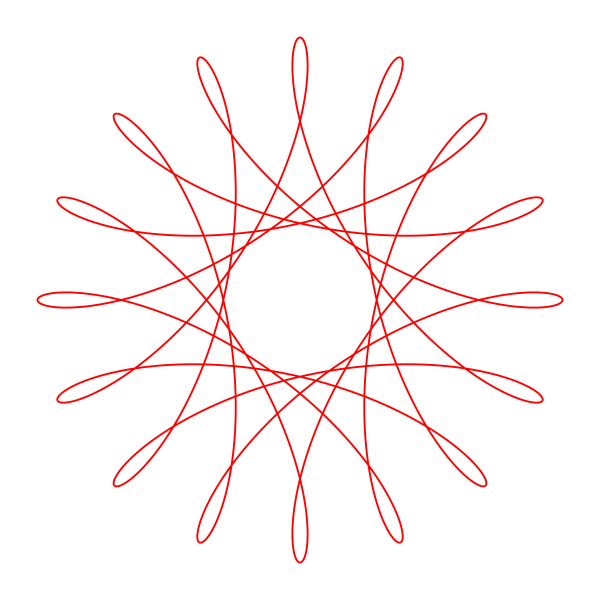
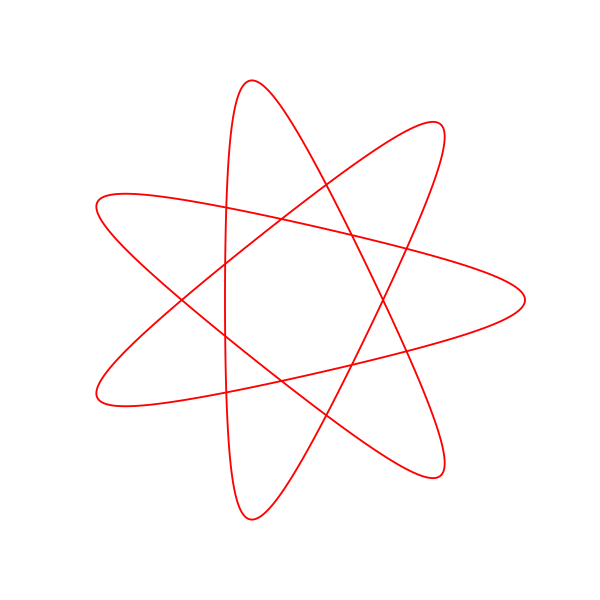
Spirograph animation and dimnsions diagrams

diff --git a/blog/geometric/spirograph-illustration.py b/blog/geometric/spirograph-illustration.py
@@ -1,0 +1,111 @@
+# Author:  Martin McBride
+# Created: 2022-01-22
+# Copyright (C) 2022, Martin McBride
+# License: MIT
+
+from generativepy.color import Color
+from generativepy.drawing import make_image, setup, make_image_frames
+import math
+
+from generativepy.geometry import Polygon, Text, Circle, Line
+from generativepy.gif import save_animated_gif
+
+
+def create_spiro(a, b, d, dt=0.01, extent=None):
+    if not extent:
+        extent = 2*math.pi*b/math.gcd(a, b)
+    t = 0
+    pts = []
+    while t < extent:
+        t += dt
+        x = (a - b) * math.cos(t) + d * math.cos((a - b)/b * t)
+        y = (a - b) * math.sin(t) - d * math.sin((a - b)/b * t)
+        pts.append((x, y))
+    return pts
+
+
+# Create an illustration of the first few points of the curve.
+def draw(ctx, pixel_width, pixel_height, frame_no, frame_count):
+
+    width = 32
+    setup(ctx, pixel_width, pixel_height, width=width, startx=-width/2, starty=-width/2, background=Color(1))
+
+    a = 14
+    b = 6
+    d = 4
+    Polygon(ctx).of_points(create_spiro(a, b, d)).stroke(Color('skyblue'), line_width=0.1)
+    points = create_spiro(a, b, d, 0.5, 4)
+    Polygon(ctx).of_points(points).open().stroke(Color('red'), 0.1)
+    for p in points:
+        Circle(ctx).of_center_radius(p, 0.2).fill(Color(0))
+
+make_image("spirograph-points.png", draw, 600, 600)
+
+# Create an illustration of the dimensions A, B, D.
+def draw2(ctx, pixel_width, pixel_height, frame_no, frame_count):
+
+    width = 32
+    setup(ctx, pixel_width, pixel_height, width=width, startx=-width/2, starty=-width/2, background=Color(1))
+
+    a = 14
+    b = 6
+    d = 4
+    angle = 1
+
+    Origin = (0, 0)
+    A = (-a, 0)
+    B = ((a-b)*math.cos(angle), (a-b)*math.sin(angle))
+    x = (a - b) * math.cos(angle) + d * math.cos((a - b) / b * angle)
+    y = (a - b) * math.sin(angle) - d * math.sin((a - b) / b * angle)
+    D = (x, y)
+
+    Polygon(ctx).of_points(create_spiro(a, b, d)).stroke(Color('skyblue'), line_width=0.1)
+    Polygon(ctx).of_points(create_spiro(a, b, d, 0.01, angle)).open().stroke(Color('red'), line_width=0.1)
+
+    Circle(ctx).of_center_radius(Origin, a).stroke(Color('darkgreen'), line_width=0.1)
+    Circle(ctx).of_center_radius(Origin, 0.3).fill(Color('darkgreen'))
+    Line(ctx).of_start_end(Origin, A).stroke(Color('darkgreen'), line_width=0.1)
+    Text(ctx).of('a', (A[0]/2, A[1])).size(1.5).offset(0, -0.5).fill(Color('darkgreen'))
+    Circle(ctx).of_center_radius(B, b).stroke(Color('blue'), line_width=0.1)
+    Circle(ctx).of_center_radius(B, 0.3).fill(Color('blue'))
+    Text(ctx).of('b', (B[0], B[1]+b/2)).size(1.5).offset(0.5, 0).fill(Color('blue'))
+    Line(ctx).of_start_end(B, (B[0], B[1]+b)).stroke(Color('blue'), line_width=0.1)
+    Circle(ctx).of_center_radius(D, 0.3).fill(Color('black'))
+    Line(ctx).of_start_end(B, D).stroke(Color('black'), line_width=0.1)
+    Text(ctx).of('d', ((B[0]+D[0])/2, (B[1]+D[1])/2)).size(1.5).offset(0.5, 0.5).fill(Color('black'))
+
+
+make_image("spirograph-dimensions.png", draw2, 600, 600)
+
+# Create an animation of the curve being drawn.
+def draw3(ctx, pixel_width, pixel_height, frame_no, frame_count):
+
+    width = 32
+    setup(ctx, pixel_width, pixel_height, width=width, startx=-width/2, starty=-width/2, background=Color(1))
+
+    a = 14
+    b = 6
+    d = 4
+    angle = (frame_no/frame_count)*2*math.pi*b/math.gcd(a, b)
+    print(angle)
+
+    Origin = (0, 0)
+    A = (-a, 0)
+    B = ((a-b)*math.cos(angle), (a-b)*math.sin(angle))
+    x = (a - b) * math.cos(angle) + d * math.cos((a - b) / b * angle)
+    y = (a - b) * math.sin(angle) - d * math.sin((a - b) / b * angle)
+    D = (x, y)
+
+    Polygon(ctx).of_points(create_spiro(a, b, d)).stroke(Color('skyblue'), line_width=0.2)
+    Polygon(ctx).of_points(create_spiro(a, b, d, 0.01, angle)).open().stroke(Color('red'), line_width=0.2)
+
+    Circle(ctx).of_center_radius(Origin, a).stroke(Color('darkgreen'), line_width=0.2)
+    Circle(ctx).of_center_radius(B, b).stroke(Color('blue'), line_width=0.2)
+    Circle(ctx).of_center_radius(B, 0.3).fill(Color('blue'))
+    Circle(ctx).of_center_radius(D, 0.3).fill(Color('black'))
+    Line(ctx).of_start_end(B, D).stroke(Color('black'), line_width=0.2)
+
+
+frames = make_image_frames(draw3, 400, 400, 100)
+save_animated_gif("spirograph-animation.gif", frames, 0.1)
+

diff --git a/blog/geometric/spirograph.py b/blog/geometric/spirograph.py
@@ -26,9 +26,9 @@ def draw(ctx, pixel_width, pixel_height, frame_no, frame_count):
     width = 32
     setup(ctx, pixel_width, pixel_height, width=width, startx=-width/2, starty=-width/2, background=Color(1))
 
-    a = 16
-    b = 11
-    d = 9
+    a = 14
+    b = 6
+    d = 4
     Polygon(ctx).of_points(create_spiro(a, b, d)).stroke(Color('red'), line_width=0.1)
 
 
